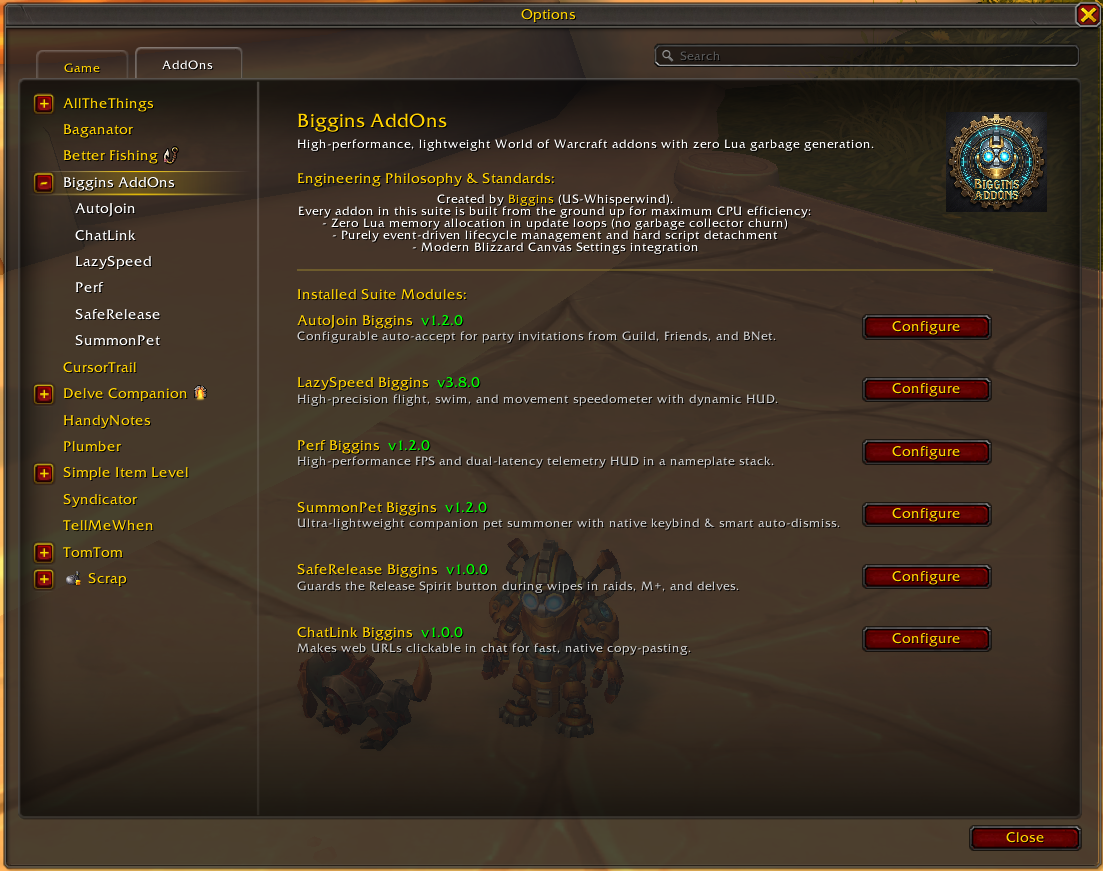
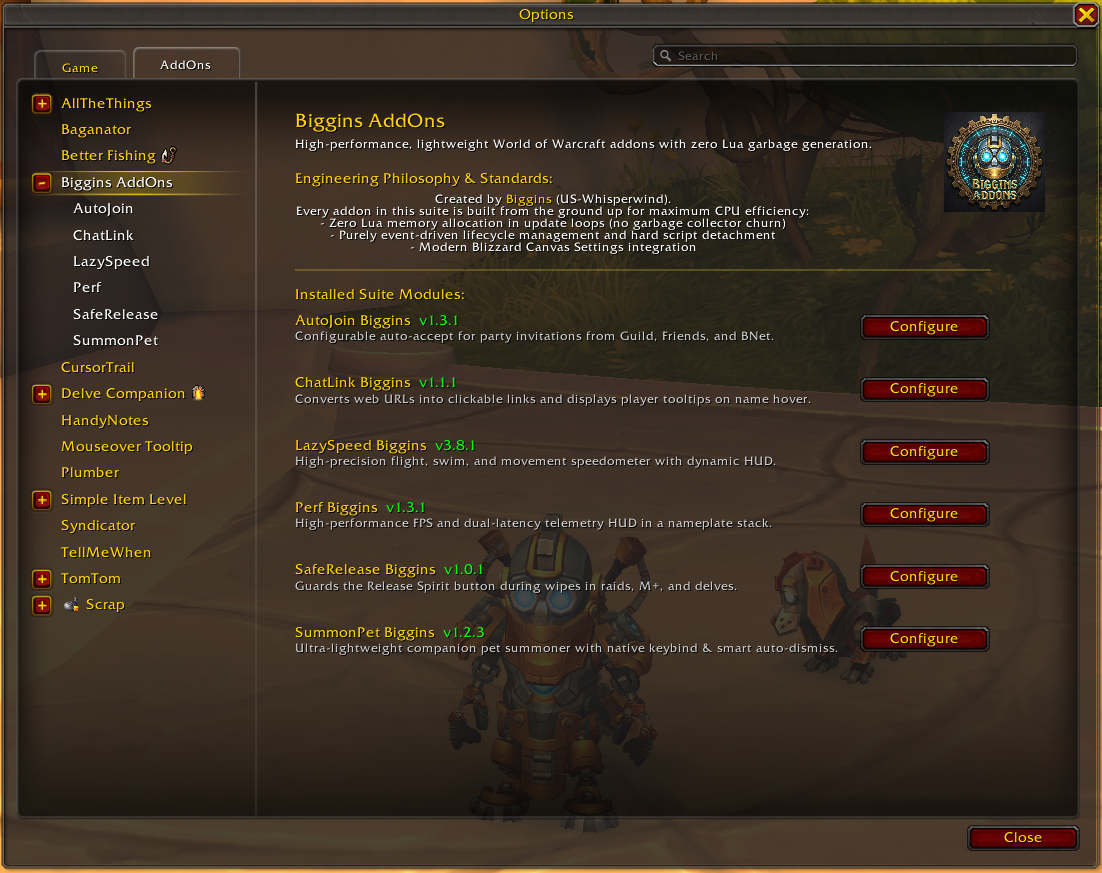
patch suite shared library to 1.0.4 to address loading issue

diff --git a/lib-biggins-suite/CHANGELOG.md b/lib-biggins-suite/CHANGELOG.md
@@ -1,0 +1,54 @@
+# Changelog - LibBigginsSuite
+
+All notable changes to **LibBigginsSuite** will be documented in this file.
+
+The format is based on [Keep a Changelog](https://keepachangelog.com/en/1.0.0/),
+and this project adheres to [Semantic Versioning](https://semver.org/spec/v2.0.0.html).
+
+---
+
+## [1.0.4] - 2026-11-01
+
+### Added
+- **`PLAYER_LOGIN` Auto-Refresh:** Added background event listener at `PLAYER_LOGIN` to ensure all installed suite modules and version strings are 100% synchronized in memory before the user opens the options panel.
+- **Dynamic Registration Hook:** Submodule registration via `RegisterSubcategory()` now triggers an immediate live refresh of the parent dashboard.
+- **Slash Command Refresh:** `/biggins` now executes a live dashboard scan before opening the Blizzard Settings panel.
+
+### Changed
+- **Guaranteed `OnShow` Lifecycle:** Parent panel frame is now initialized in an explicitly hidden state (`parentPanel:Hide()`), ensuring Blizzard's settings canvas container triggers a clean hidden-to-shown transition and fires `OnShow` on the very first click.
+- **Pre-Population on Construct:** The suite dashboard now runs an initial module scan immediately upon creation to prevent uninitialized or blank row states.
+- **Catalog Updates:** Updated fallback versions and feature descriptions for `AutoJoin Biggins` (v1.3.0) and `ChatLink Biggins` (v1.1.0).
+
+---
+
+## [1.0.3] - 2026-10-24
+
+### Added
+- **ChatLink Biggins Module:** Registered `ChatLink Biggins` into the suite catalog with live detection and direct `[ Configure ]` jump navigation.
+
+---
+
+## [1.0.2] - 2026-10-24
+
+### Added
+- **SafeRelease Biggins Module:** Registered `SafeRelease Biggins` into the suite catalog with live detection and direct `[ Configure ]` jump navigation.
+
+---
+
+## [1.0.1] - 2026-10-22
+
+### Added
+- **Interactive Suite Dashboard:** Added dynamic module list to the root settings panel with loaded state checks, green version tags, and `(Available on CurseForge)` badges.
+- **Direct Subpanel Navigation:** Added `[ Configure ]` buttons for each detected addon to jump straight to its child settings panel.
+- **Registered Modules:** Added initial catalog entries for `AutoJoin`, `LazySpeed`, `Perf`, and `SummonPet`.
+
+---
+
+## [1.0.0] - 2026-10-21
+
+### Added
+- **Initial Release** of LibBigginsSuite-1.0.
+- **Unified Parent Settings Category:** Creates and manages the top-level `Biggins AddOns` category in Blizzard's modern Canvas Settings UI.
+- **Shared Suite Assets:** Centralized Mechagnome suite banner (`suite-logo.jpg`) and author engineering philosophy header.
+- **Child Registration API:** Provided `LibBigginsSuite:RegisterSubcategory(addonDir, panel, shortName)` helper for clean submodule attachment.
+- **Slash Command:** Added `/biggins` command to open the root suite settings directly.

diff --git a/lazyspeed-biggins/CHANGELOG.md b/lazyspeed-biggins/CHANGELOG.md
@@ -5,6 +5,13 @@ All notable changes to LazySpeed Biggins will be documented in this file.
 The format is based on [Keep a Changelog](https://keepachangelog.com/en/1.0.0/),
 and this project adheres to [Semantic Versioning](https://semver.org/spec/v2.0.0.html).
 
+## [3.8.1] - 2026-11-01
+
+### Changed
+- **Suite Dashboard Integration:** Updated embedded LibBigginsSuite to 1.0.4 for instantaneous module detection and reliable first-click settings display.
+
+---
+
 ## [3.8.0] - 2026-10-23
 
 ### Added

diff --git a/chatlink-biggins/CHANGELOG.md b/chatlink-biggins/CHANGELOG.md
@@ -7,6 +7,13 @@ and this project adheres to [Semantic Versioning](https://semver.org/spec/v2.0.0
 
 ---
 
+## [1.1.1] - 2026-11-01
+
+### Changed
+- **Suite Dashboard Integration:** Updated embedded LibBigginsSuite to 1.0.4 for instantaneous module detection and reliable first-click settings display.
+
+---
+
 ## [1.1.0] - 2026-11-01
 
 ### Added

diff --git a/saferelease-biggins/CHANGELOG.md b/saferelease-biggins/CHANGELOG.md
@@ -4,6 +4,13 @@ All notable changes to **SafeRelease Biggins** will be documented in this file.
 
 ---
 
+## [1.0.1] - 2026-11-01
+
+### Changed
+- **Suite Dashboard Integration:** Updated embedded LibBigginsSuite to 1.0.4 for instantaneous module detection and reliable first-click settings display.
+
+---
+
 ## [1.0.0] - 2026-10-24
 
 ### Added

diff --git a/autojoin-biggins/CHANGELOG.md b/autojoin-biggins/CHANGELOG.md
@@ -4,6 +4,13 @@ All notable changes to **AutoJoin Biggins** will be documented in this file.
 
 ---
 
+## [1.3.1] - 2026-11-01
+
+### Changed
+- **Suite Dashboard Integration:** Updated embedded LibBigginsSuite to 1.0.4 for instantaneous module detection and reliable first-click settings display.
+
+---
+
 ## [1.3.0] - 2026-11-01
 
 ### Added

diff --git a/perf-biggins/CHANGELOG.md b/perf-biggins/CHANGELOG.md
@@ -4,6 +4,13 @@ All notable changes to **Perf Biggins** will be documented in this file.
 
 ---
 
+## [1.3.1] - 2026-11-01
+
+### Changed
+- **Suite Dashboard Integration:** Updated embedded LibBigginsSuite to 1.0.4 for instantaneous module detection and reliable first-click settings display.
+
+---
+
 ## [1.3.0] - 2026-10-31
 
 ### Added

diff --git a/summonpet-biggins/CHANGELOG.md b/summonpet-biggins/CHANGELOG.md
@@ -1,5 +1,12 @@
 # Changelog - SummonPet Biggins
 
+## [1.2.3] - 2026-11-01
+
+### Changed
+- **Suite Dashboard Integration:** Updated embedded LibBigginsSuite to 1.0.4 for instantaneous module detection and reliable first-click settings display.
+
+---
+
 ## [1.2.2] - 2026-10-26
 
 ### Fixed
